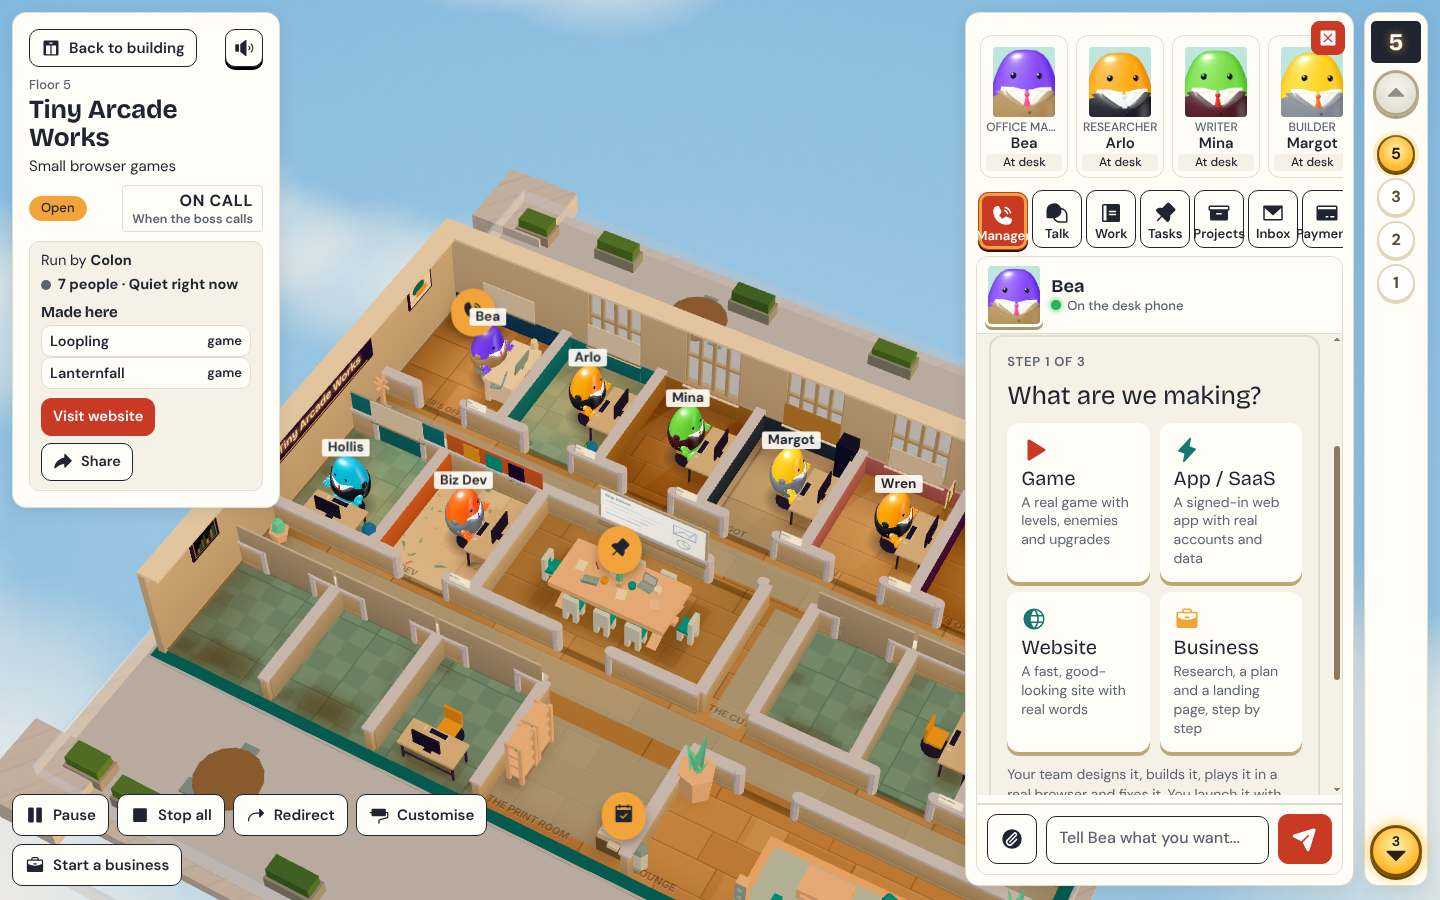
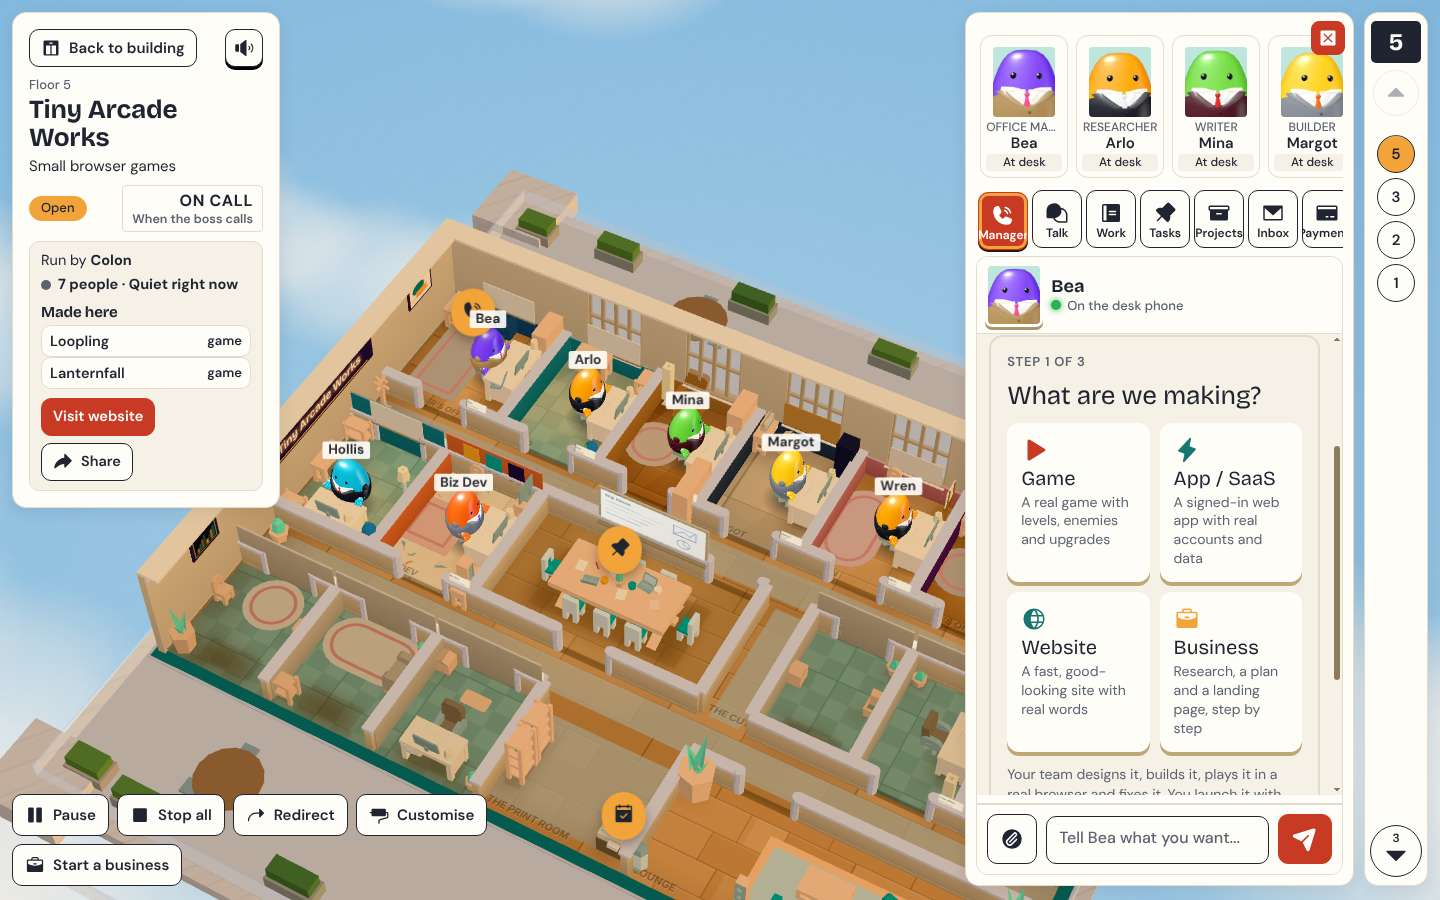
j01 One skin: done (DONE.md, screenshots)
Claude-Session: https://claude.ai/code/session_01JpzevpiyBk2kkTfLP5NuKr

diff --git a/docs/redesign/jobs/j01/DONE.md b/docs/redesign/jobs/j01/DONE.md
@@ -1,0 +1,30 @@
+STATUS: GREEN
+JOB: 01 One skin
+DONE MEANS: "Lobby and floor use the same 8 colours, 2 fonts and 1 card style."
+  - public/css/skin.css (loaded last on the one page that serves lobby and floor) defines the 8 palette colours as CSS variables
+    (--c-paper #F6F1E7, --c-card #FFFDF8, --c-ink #1F2430, --c-red #C93A24, --c-amber #F2A33A, --c-teal #17766F, --c-slate #5B6270,
+    --c-line #E3DBCB), points every older variable (--ink, --paper, --teal, --tomato, --sun, --felt, --brass...) at them, and gives the
+    red badge, the cream card, the dark wood directory, the brass lift, the cork wall, the floor plaque, the wooden desk panel and the
+    modals one Card style (Card fill, 1px Line border, 14px corners, 16px padding, one soft shadow). One Button: Tower Red fill + white
+    for the main action (.btn.primary, send, the Open an office pill), Ink outline for all others. The status badge (.badge with
+    data-state working/waiting/idle/paused: Amber, Red, Slate outline, Slate fill) is defined here and used from j02 on.
+  - Two families only: Bricolage Grotesque (headings) and DM Sans (body, labels; tabular figures). Self-hosted latin variable woff2 in
+    public/assets/fonts/ (41 KB + 37 KB) from the npm packages @fontsource-variable/bricolage-grotesque@5.3.0 and
+    @fontsource-variable/dm-sans@5.3.0; OFL credits in NOTICE and public/assets/NOTICE.txt. Lilita One, Barlow, Barlow Condensed and
+    Patrick Hand are removed. No runtime font fetch from Google. The 3D scene keeps its sunset colours; its painted signs ask for
+    "Fraunces", which now maps to Bricolage Grotesque, so even the signs use the two faces.
+  - The phone sheet's own palette (mobile.css --m-*) is pointed at the same 8 colours. The about/privacy/terms pages (page.css) use the
+    same palette and faces.
+  - Proof: test/skin.test.js (5 tests): the 8 hex values as variables; no colour in skin.css outside the palette (+ white text on the red
+    button); 15 text/background pairs the skin uses all at least 4.5:1 (lowest: Slate on Paper 5.6:1, white on Red 5.3:1); exactly two
+    self-hosted woff2 families, no googleapis/gstatic anywhere in public/css or index.html, skin.css loaded last; one card / one button /
+    four badge states. test/statics.test.js updated for the new font file names (the old test named lilita-one-400.woff2).
+  - Screenshots (mock mode, 0 console errors): docs/redesign/jobs/j01/shots/{home,floor}-{visitor,boss}-{desktop 1440x900,phone 390x844}.jpg
+TESTS: npm test 1697/1698. The one failure is test/domains.test.js "the key only travels over TLS ... over IPv4": listen EAFNOSUPPORT ::1,
+  this container has no IPv6; unrelated to this job. Browser suites run: test/browser/redesign-shots.mjs (new: home and floor, visitor
+  and boss, desktop and phone, 8 shots, 0 console errors). Other browser suites not run for this job (no layout or behaviour change).
+DEPLOY NOTES: none. No migration, no env var, no admin command. Static files only (one new stylesheet, two new font files, four old ones removed).
+RISKS: The older stylesheets still hold their own hard-coded colours on less-seen panels (Business, Numbers, mail, servers, customise
+  dialogs); skin.css repaints the main surfaces and remaps the shared variables, so those panels mostly follow, but a few accents
+  (e.g. coin buttons, some status colours inside Business) are still the old ones. Layout is untouched (jobs 14 to 16). Uppercase
+  labels from the old sheets that are not overridden show in DM Sans.
